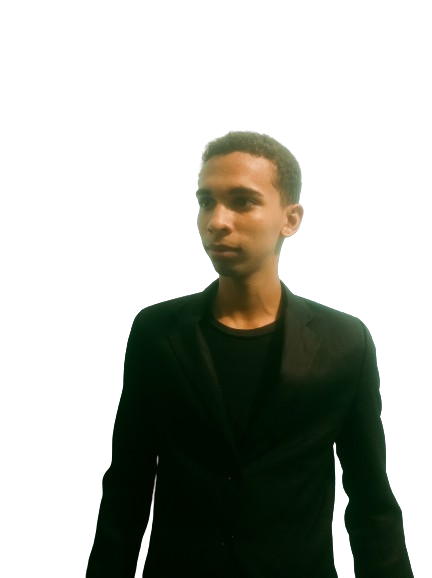
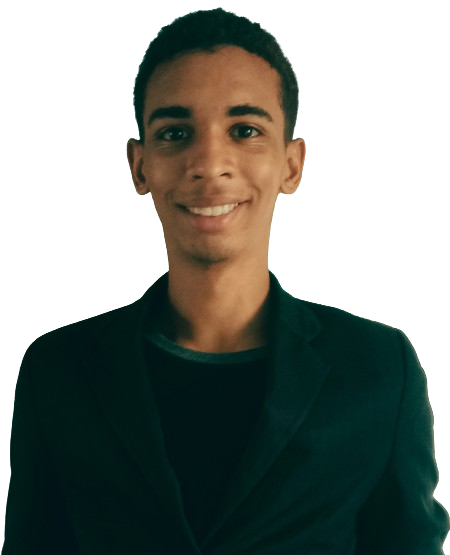
portfolio

diff --git a/css/style.css b/css/style.css
@@ -9,11 +9,19 @@
 
 html, body {
     height: 100vh;
-    overflow: hidden;
+    width: 100vw;
+    overflow-x: hidden;
 }
-.website {
+.website-page-1 {
     background: linear-gradient(#fff, #e9e8e8);
-    height: 100%;
+    height: 100vh;
+    color: #051606;
+}
+.website-page-2 {
+    background-image: url(../img/videoplayback.jpg);
+    background-size: cover;
+    height: 100vh;
+    width: 100vw;
     color: #051606;
 }
 a {
@@ -63,14 +71,14 @@ header {
 }
 /* main */
 .conteudo {
-    height: 100%;
+    height: 89.2%;
     width: 100%;
     display: flex;
     align-items: center;
 }
 main {
     display: flex;
-    height: 89%;
+    height: 100%;
     width: 97.5%;
 }
 .intro {
@@ -92,20 +100,23 @@ main {
     display: flex;
     align-items: center;
     justify-content: center;
-}
-.photo-intro img {
-    width: 100%;
-    scale: -1 1;
+    background-image: url(../img/photo1.png);
+    background-repeat: no-repeat;
+    background-position: center;
+    background-size: contain;
     z-index: 0;
     transition: 1s;
 }
+
 .intro .nome-destaque-intro {
     font-weight: 700;
     font-size: 4rem;
     transition: 0.5s;
 }
 .intro .nome-destaque-intro:hover {
-    letter-spacing: 0.1rem;
+    color: #000;
+    font-weight: 800;
+    
 }
 .intro .profissao-intro {
     font-weight: 300;

diff --git a/index.html b/index.html
@@ -10,7 +10,7 @@
     <link href="https://fonts.googleapis.com/css2?family=Poppins:wght@100;200;300;400;500;700&display=swap" rel="stylesheet">
 </head>
 <body>
-    <div class="website">
+    <div class="website-page-1">
         <header>
             <nome-header class="nome-header">Joelson Developer</nome-header>
             <nav class="links-header">
@@ -30,7 +30,7 @@
                    </div>
                 </div>
                 <div class="photo-intro">
-                    <img src="img/photo2.png" alt="">
+                    
                 </div>
             </main>
             <aside>
@@ -42,6 +42,9 @@
                 </nav>
             </aside>
         </div>
+    </div>
+    <div class="website-page-2">
+        
     </div>
 </body>
 </html>
